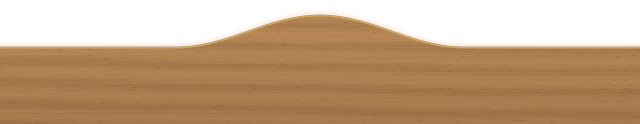
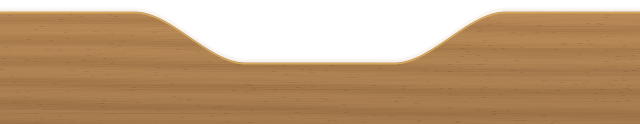
Bookshelf: the Wii Menu's layout too
Its wooden bar dips under the LCD clock as the default theme's does,
edged in brass, with the view and the page on its sides; theme.ini no
longer asks for the bump.

Changed region(s): [[0.0, 0.0726, 1.0, 0.5323]]

diff --git a/tools/make_bookshelf_theme.py b/tools/make_bookshelf_theme.py
@@ -9,8 +9,8 @@ picture from anywhere else):
   row of covers on Home, so the covers stand on them;
 - cover_tile.png / cover_tile_over.png: a plain paper book standing on
   the shelf, hidden by the cover drawn over it (and a warm glow when lit);
-- bar.png: Home's bottom bar as the bookcase's base, its curve edged in
-  brass;
+- bar.png: Home's bottom bar as the bookcase's base, dipping under the
+  clock as the Wii Menu's does, its curve edged in brass;
 - shelf.png: the wood for the shelf view's plank;
 - background_shelf.png: the same wall for the shelf view, with only the
   lower shelf (the boxes stand on it; the upper one would cross them);
@@ -44,7 +44,6 @@ author = RiftWii
 [shape]
 corners = 1
 gloss = yes
-bar = bump
 
 [backdrop]
 stripes = no
@@ -209,13 +208,21 @@ def cover_tile(over):
 
 
 def bar(W=640):
-    """W x 124: Home's bottom bar, the same curve RiftWii paints (src/skinpaint.cpp)."""
+    """W x 124: Home's bottom bar, the same curve RiftWii paints (src/skinpaint.cpp):
+    high at the sides, dipping over the middle 58% where the clock sits."""
     H = 124
     top = np.zeros(W)
+    dip = W * 0.58
+    dip_left = W / 2 - dip / 2
+
+    def ease(v):
+        v = min(max(v, 0.0), 1.0)
+        return v * v * (3 - 2 * v)
+
     for x in range(W):
-        t = (x + 0.5 - (W / 2 - 144.0)) / 288.0
-        bump = (1 - math.cos(t * 2 * math.pi)) * 0.5 if 0 < t < 1 else 0.0
-        top[x] = 46.0 - 32.0 * bump
+        t = (x + 0.5 - dip_left) / dip
+        d = min(ease(t / 0.3), ease((1 - t) / 0.3)) if 0 < t < 1 else 0.0
+        top[x] = 11.0 + 51.0 * d
     body = wood(W, H, (190, 142, 90), (158, 112, 66), phase=2.0, wave=4)
     yy = np.arange(H)[:, None].astype(np.float64)
     inside = np.clip(yy - top[None, :] + 0.5, 0, 1)            # anti-aliased curve

diff --git a/docs/THEMES.md b/docs/THEMES.md
@@ -137,7 +137,7 @@ Pictures ending in `_over` are the highlighted versions. Transparency
 | `pointer1` to `pointer4` | 96x96 | Each player's pointer; the fingertip must be at the centre (48, 48) |
 | `shelf` | 256x64 | Home's shelf: rows 0-47 are its top (the far edge first), rows 48-63 its front edge. It repeats along the shelf, so make the left and right edges meet |
 | `background_wide` | 856x480 | `background` for a widescreen menu (optional) |
-| `bar_wide` | 856x124 | `bar` for a widescreen menu, its bump in the middle (optional) |
+| `bar_wide` | 856x124 | `bar` for a widescreen menu, its dip (or bump) in the middle (optional) |
 | `background_shelf` / `background_shelf_wide` | 640x480 / 856x480 | `background` / `background_wide` while Home shows the shelf (Settings > Home tiles > Shelf), for a background drawn to go with Home's rows of covers (optional) |
 
 ### Widescreen and screen size
